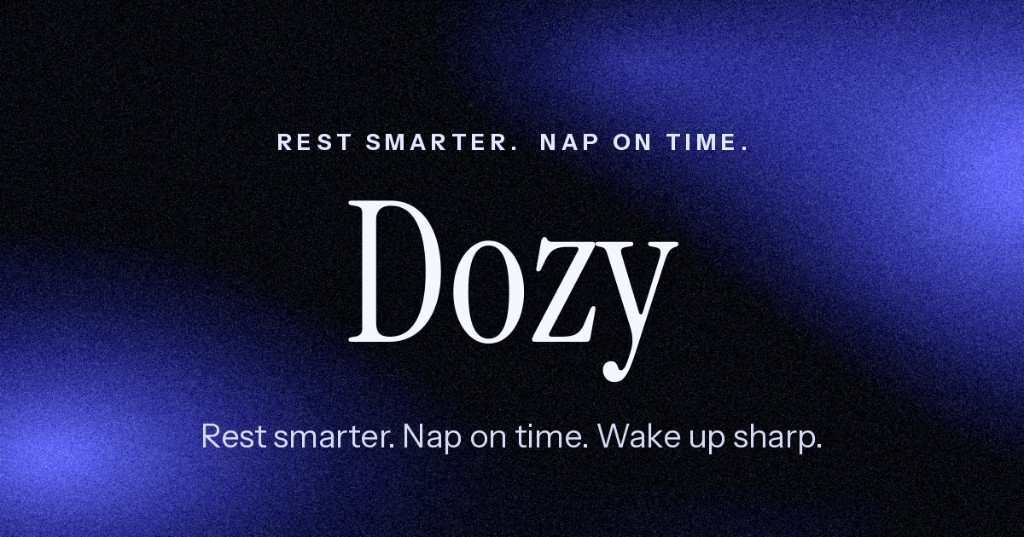
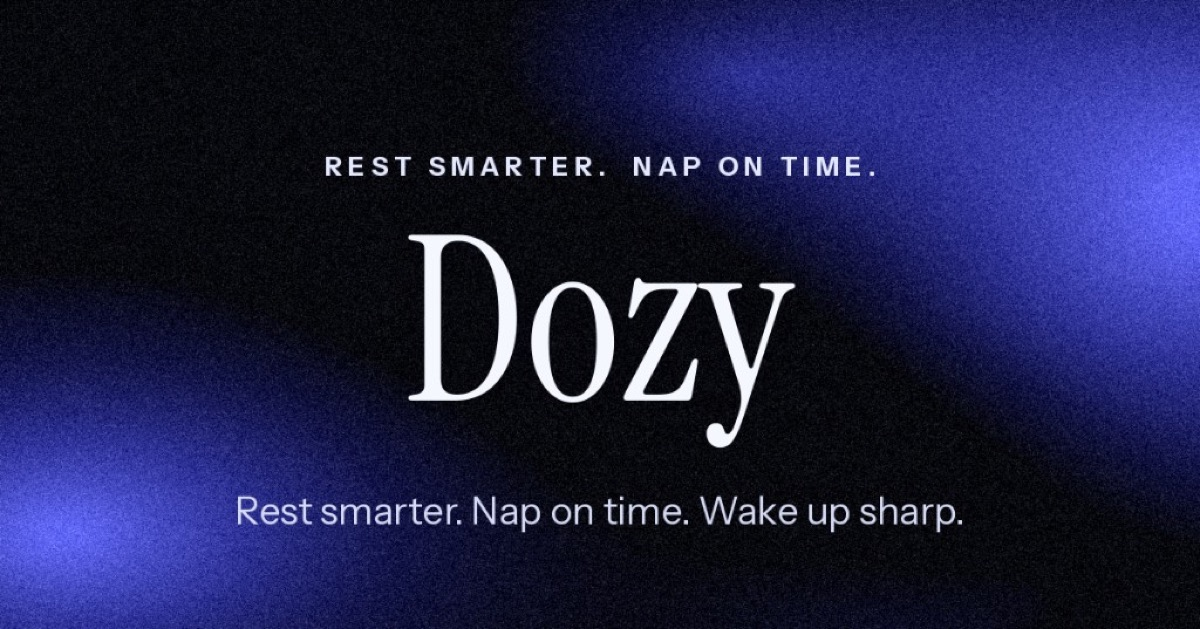
Improve link preview metadata for iMessage and social apps.
Use a 1200px OG image, canonical URL, and complete Open Graph fields so Apple and Twitter refetch rich previews.

diff --git a/src/app/layout.tsx b/src/app/layout.tsx
@@ -2,21 +2,29 @@ import type { Metadata } from "next";
 import { instrumentSerif } from "@/lib/fonts";
 import "./globals.css";
 
+const siteUrl = "https://www.appdozy.com";
+
 export const metadata: Metadata = {
-  metadataBase: new URL("https://www.appdozy.com"),
+  metadataBase: new URL(siteUrl),
   title: "Dozy",
-  description:
-    "Rest smarter. Nap on time. Wake up sharp.",
+  description: "Rest smarter. Nap on time. Wake up sharp.",
+  alternates: {
+    canonical: siteUrl,
+  },
   openGraph: {
     title: "Dozy",
     siteName: "Dozy",
     description: "Rest smarter. Nap on time. Wake up sharp.",
+    url: siteUrl,
     type: "website",
+    locale: "en_US",
     images: [
       {
         url: "/og.jpg",
-        width: 1024,
-        height: 537,
+        secureUrl: `${siteUrl}/og.jpg`,
+        width: 1200,
+        height: 629,
+        type: "image/jpeg",
         alt: "Dozy — Rest smarter. Nap on time.",
       },
     ],
@@ -25,7 +33,7 @@ export const metadata: Metadata = {
     card: "summary_large_image",
     title: "Dozy",
     description: "Rest smarter. Nap on time. Wake up sharp.",
-    images: ["/og.jpg"],
+    images: [`${siteUrl}/og.jpg`],
   },
 };
 
